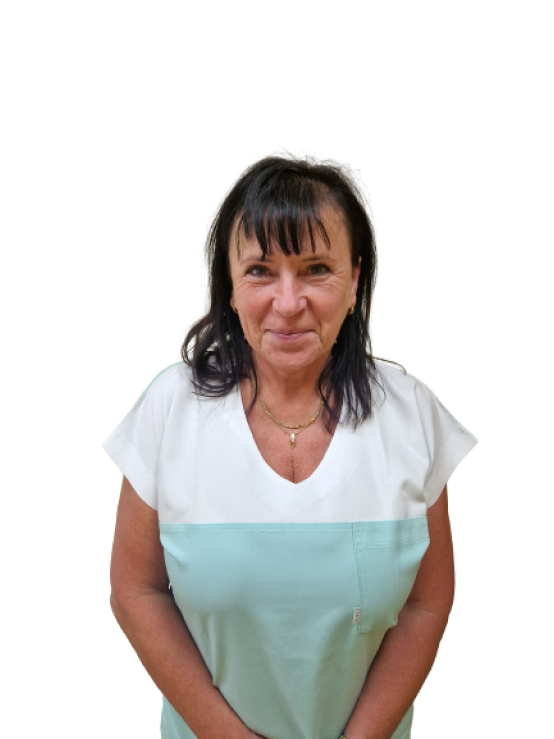
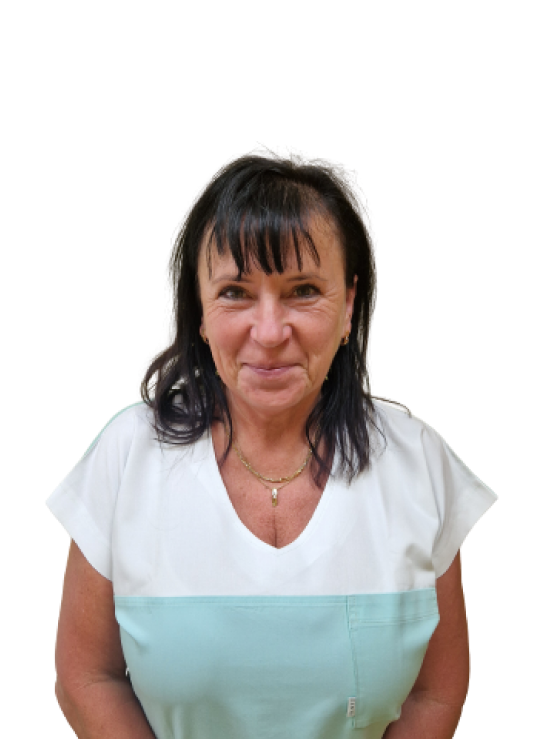
Update team slider & photos

diff --git a/index.html b/index.html
@@ -387,7 +387,7 @@
                 src="kolektiv-sestra-a-recepcni-3@2x.bc5a1ed9.png">
             <img class="ekg-pracoviste-a-spirometrie" loading="lazy" alt
                 src="ekg-pracoviste-a-spirometrie@2x.f05d3789.png">
-            <img class="recepcni-vendula-kochova" loading="lazy" alt src="recepcni-vendula-kochova@2x.3036ab4c.png">
+            <img loading="lazy" alt src="kiosek v cekarne.png">
             <img class="cekarna-pracoviste-icon" loading="lazy" alt src="cekarna-pracoviste@2x.6601f96c.png">
             <img class="infuzni-stacionar-4" loading="lazy" alt src="infuzni-stacionar-4@2x.5969438c.png">
             <img class="vrchni-sestra-lenka-bolomova" loading="lazy" alt

diff --git a/index.035199c4.css b/index.035199c4.css
@@ -2226,7 +2226,14 @@ button {
     scroll-behavior: smooth;
     width: 100%;
     overflow: hidden;
+    overflow-x: scroll;
     justify-content: flex-start;
+    -ms-overflow-style: none;
+    scrollbar-width: none;
+}
+
+.slider-container::-webkit-scrollbar { 
+    display: none;
 }
 
 .arrow-wrapper {
@@ -2285,7 +2292,8 @@ button {
 .team-member-photo {
     position: absolute;
     bottom: 0;
-    right: -15%;
+    right: 50%;
+    transform: translateX(50%);
     width: 95%;
     filter: drop-shadow(0px 4px 20px #00000025);
     z-index: 0;
